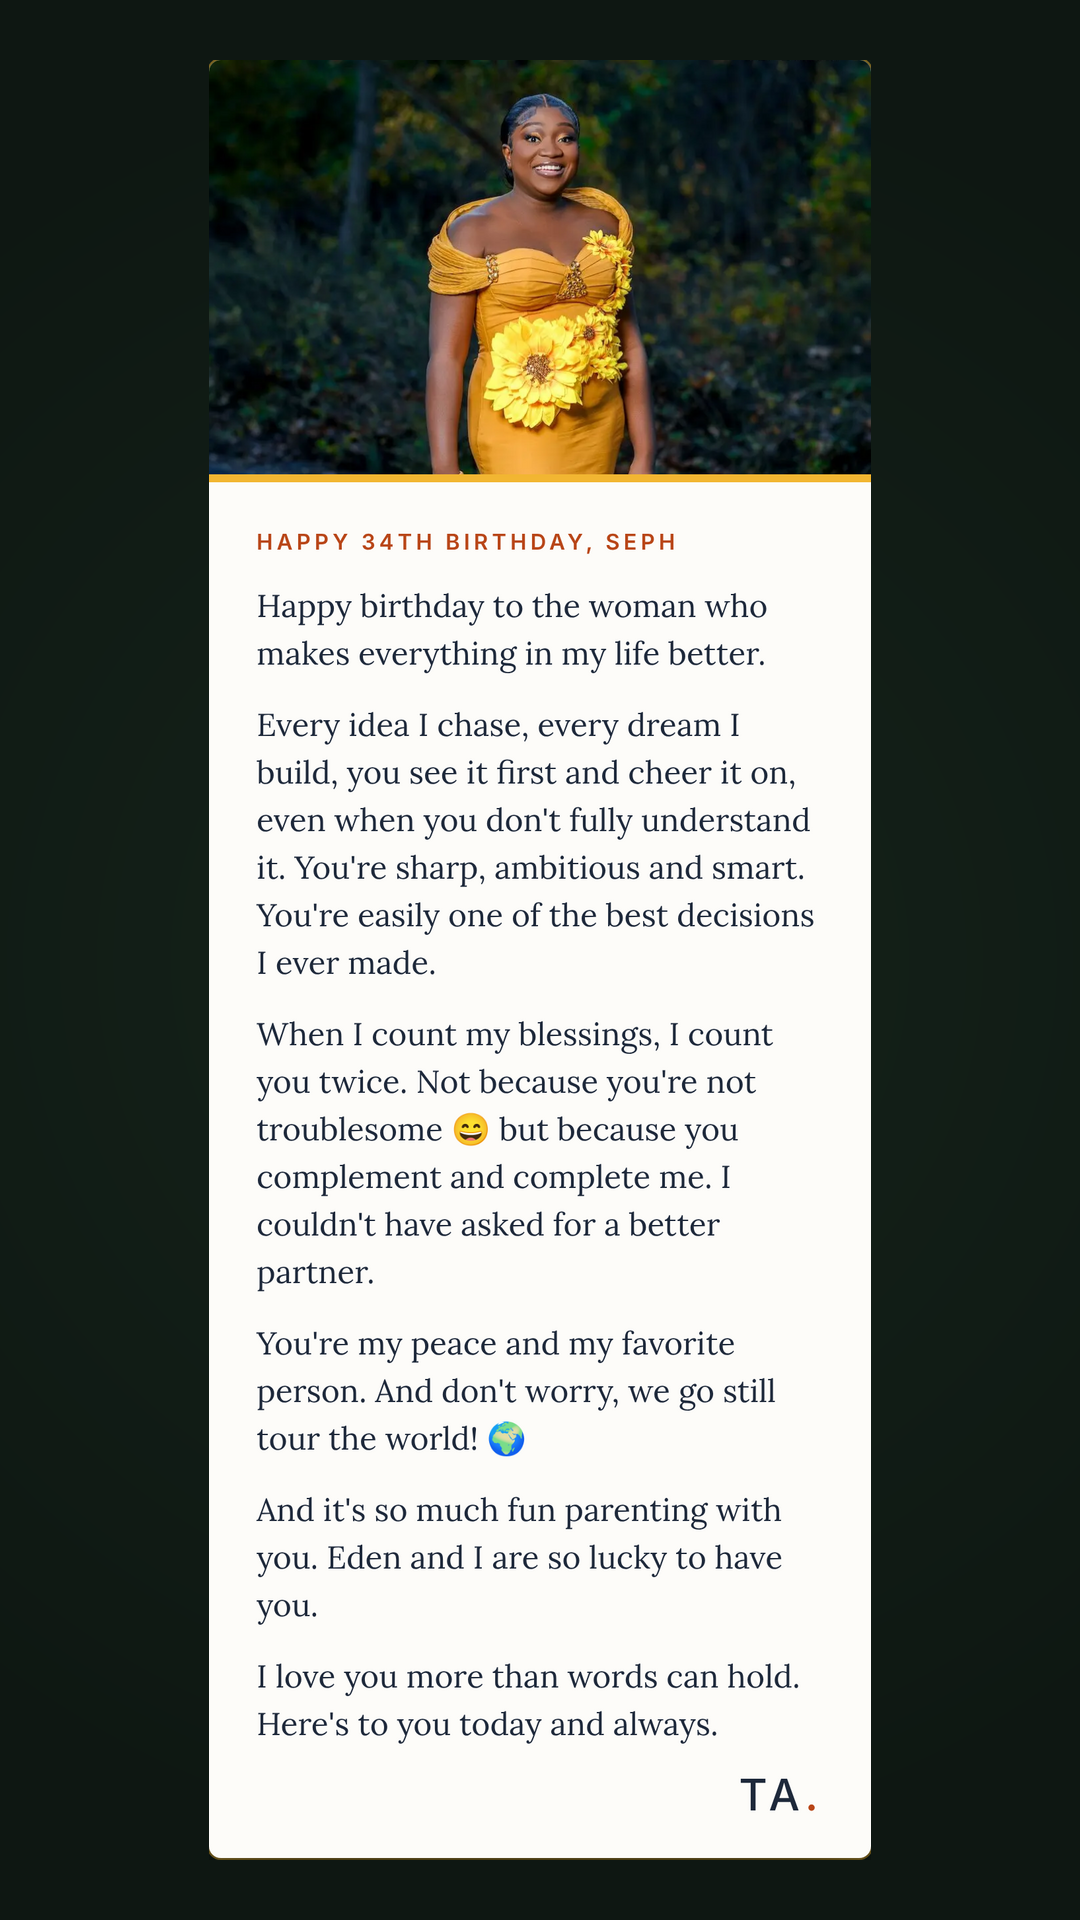
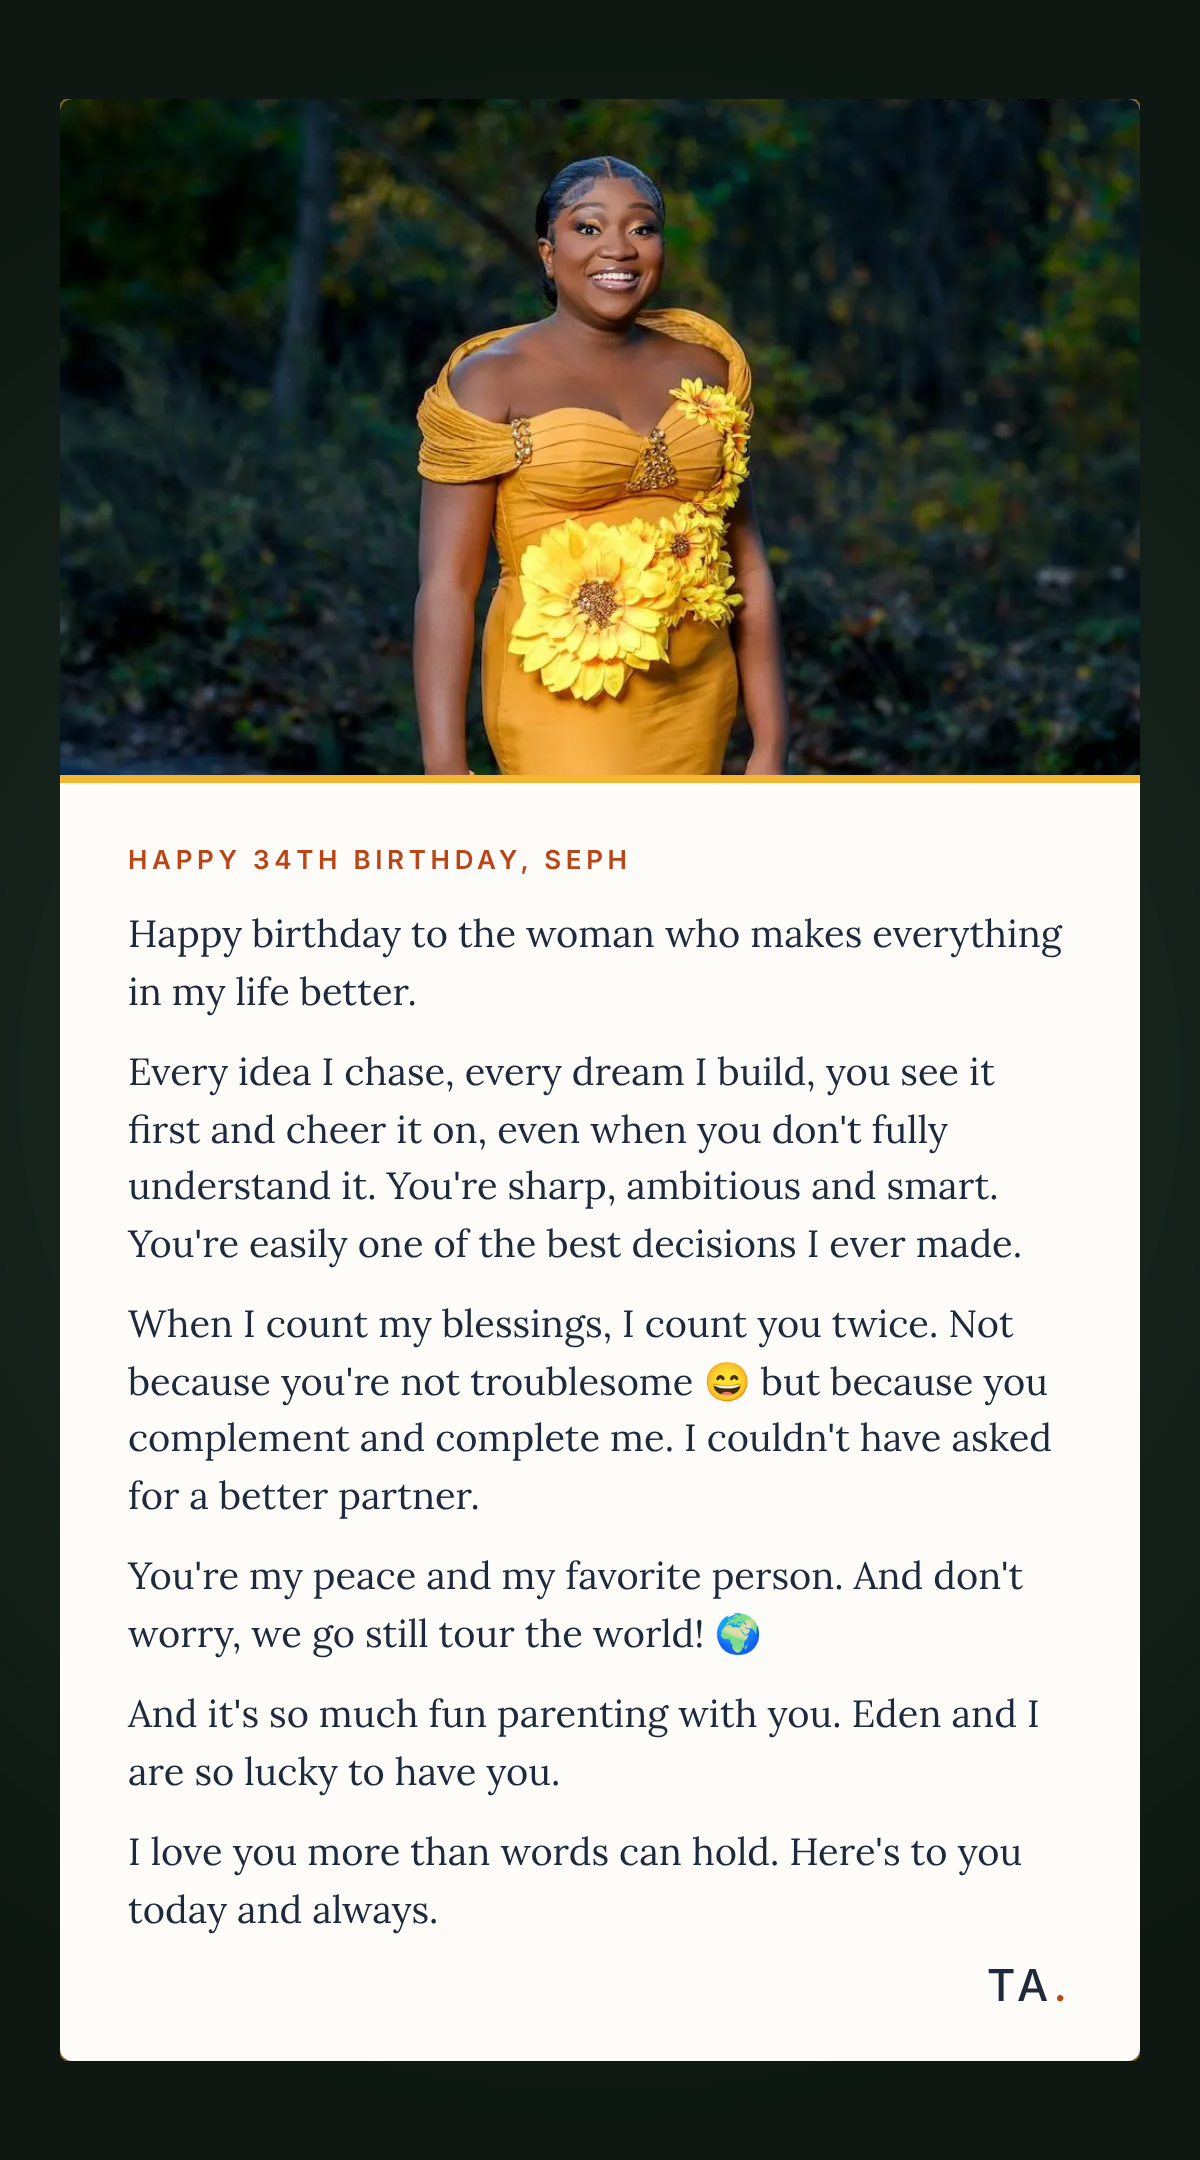
Seph at 34: Save card button and larger card image (#142)
* Reword the campus opening in Fix It, Tell It, Own It

Claude-Session: https://claude.ai/code/session_017iEJcBfFqrZSyyy114mQBy

* Add essay: Three Requirements, No Ranking

Claude-Session: https://claude.ai/code/session_017iEJcBfFqrZSyyy114mQBy

* Add /seph-at-34 birthday page with calendar file and keepsake card

Claude-Session: https://claude.ai/code/session_017iEJcBfFqrZSyyy114mQBy

* Update Seph at 34 message and card

Claude-Session: https://claude.ai/code/session_017iEJcBfFqrZSyyy114mQBy

* Set Seph at 34 date to 25 November

Claude-Session: https://claude.ai/code/session_017iEJcBfFqrZSyyy114mQBy

* Seph at 34: mobile fit fixes, scroll cues, new share image, Columbia dinner address, 25 November

Claude-Session: https://claude.ai/code/session_017iEJcBfFqrZSyyy114mQBy

* Seph at 34: tour the world

Claude-Session: https://claude.ai/code/session_017iEJcBfFqrZSyyy114mQBy

* Seph at 34: one stop per screen, countdown finale, music player ready

Claude-Session: https://claude.ai/code/session_017iEJcBfFqrZSyyy114mQBy

* Seph at 34: replace countdown with a 4:00 pm sharp callout

Claude-Session: https://claude.ai/code/session_017iEJcBfFqrZSyyy114mQBy

* Seph at 34: one screen finale, no scrolling, calendar button in the bar

Claude-Session: https://claude.ai/code/session_017iEJcBfFqrZSyyy114mQBy

* Seph at 34: background song with a start time setting

Claude-Session: https://claude.ai/code/session_017iEJcBfFqrZSyyy114mQBy

* Seph at 34: start the song at 0:41
[…]

diff --git a/src/app/seph-at-34/Journey.tsx b/src/app/seph-at-34/Journey.tsx
@@ -481,10 +481,13 @@ function CardStep() {
             </div>
           </div>
         </article>
-        <a className={s.save} href="/seph/card.png" download="Seph-at-34-card.png">
-          Save this card
-        </a>
       </div>
+      <a className={s.saveTop} href="/seph/card.png" download="Seph-at-34-card.png">
+        <svg viewBox="0 0 24 24" width="16" height="16" fill="none" stroke="currentColor" strokeWidth="2.4" strokeLinecap="round" strokeLinejoin="round" aria-hidden="true">
+          <path d="M12 4v11M7 11l5 5 5-5M5 20h14" />
+        </svg>
+        Save card
+      </a>
       {hint.rail && (
         <div className={s.rail} aria-hidden="true">
           <span className={s.thumb} style={{ top: `${hint.thumb.top}%`, height: `${hint.thumb.height}%` }} />

diff --git a/src/app/seph-at-34/journey.module.css b/src/app/seph-at-34/journey.module.css
@@ -986,3 +986,23 @@
     animation: none;
   }
 }
+
+.saveTop {
+  position: absolute;
+  z-index: 8;
+  top: calc(env(safe-area-inset-top, 0px) + 26px);
+  right: 14px;
+  display: inline-flex;
+  align-items: center;
+  gap: 7px;
+  min-height: 40px;
+  padding: 0 15px;
+  border-radius: 999px;
+  background: var(--gold);
+  color: #1b1303;
+  font-family: system-ui, -apple-system, "Segoe UI", sans-serif;
+  font-size: 14px;
+  font-weight: 700;
+  text-decoration: none;
+  box-shadow: 0 6px 22px rgba(0, 0, 0, 0.45);
+}
